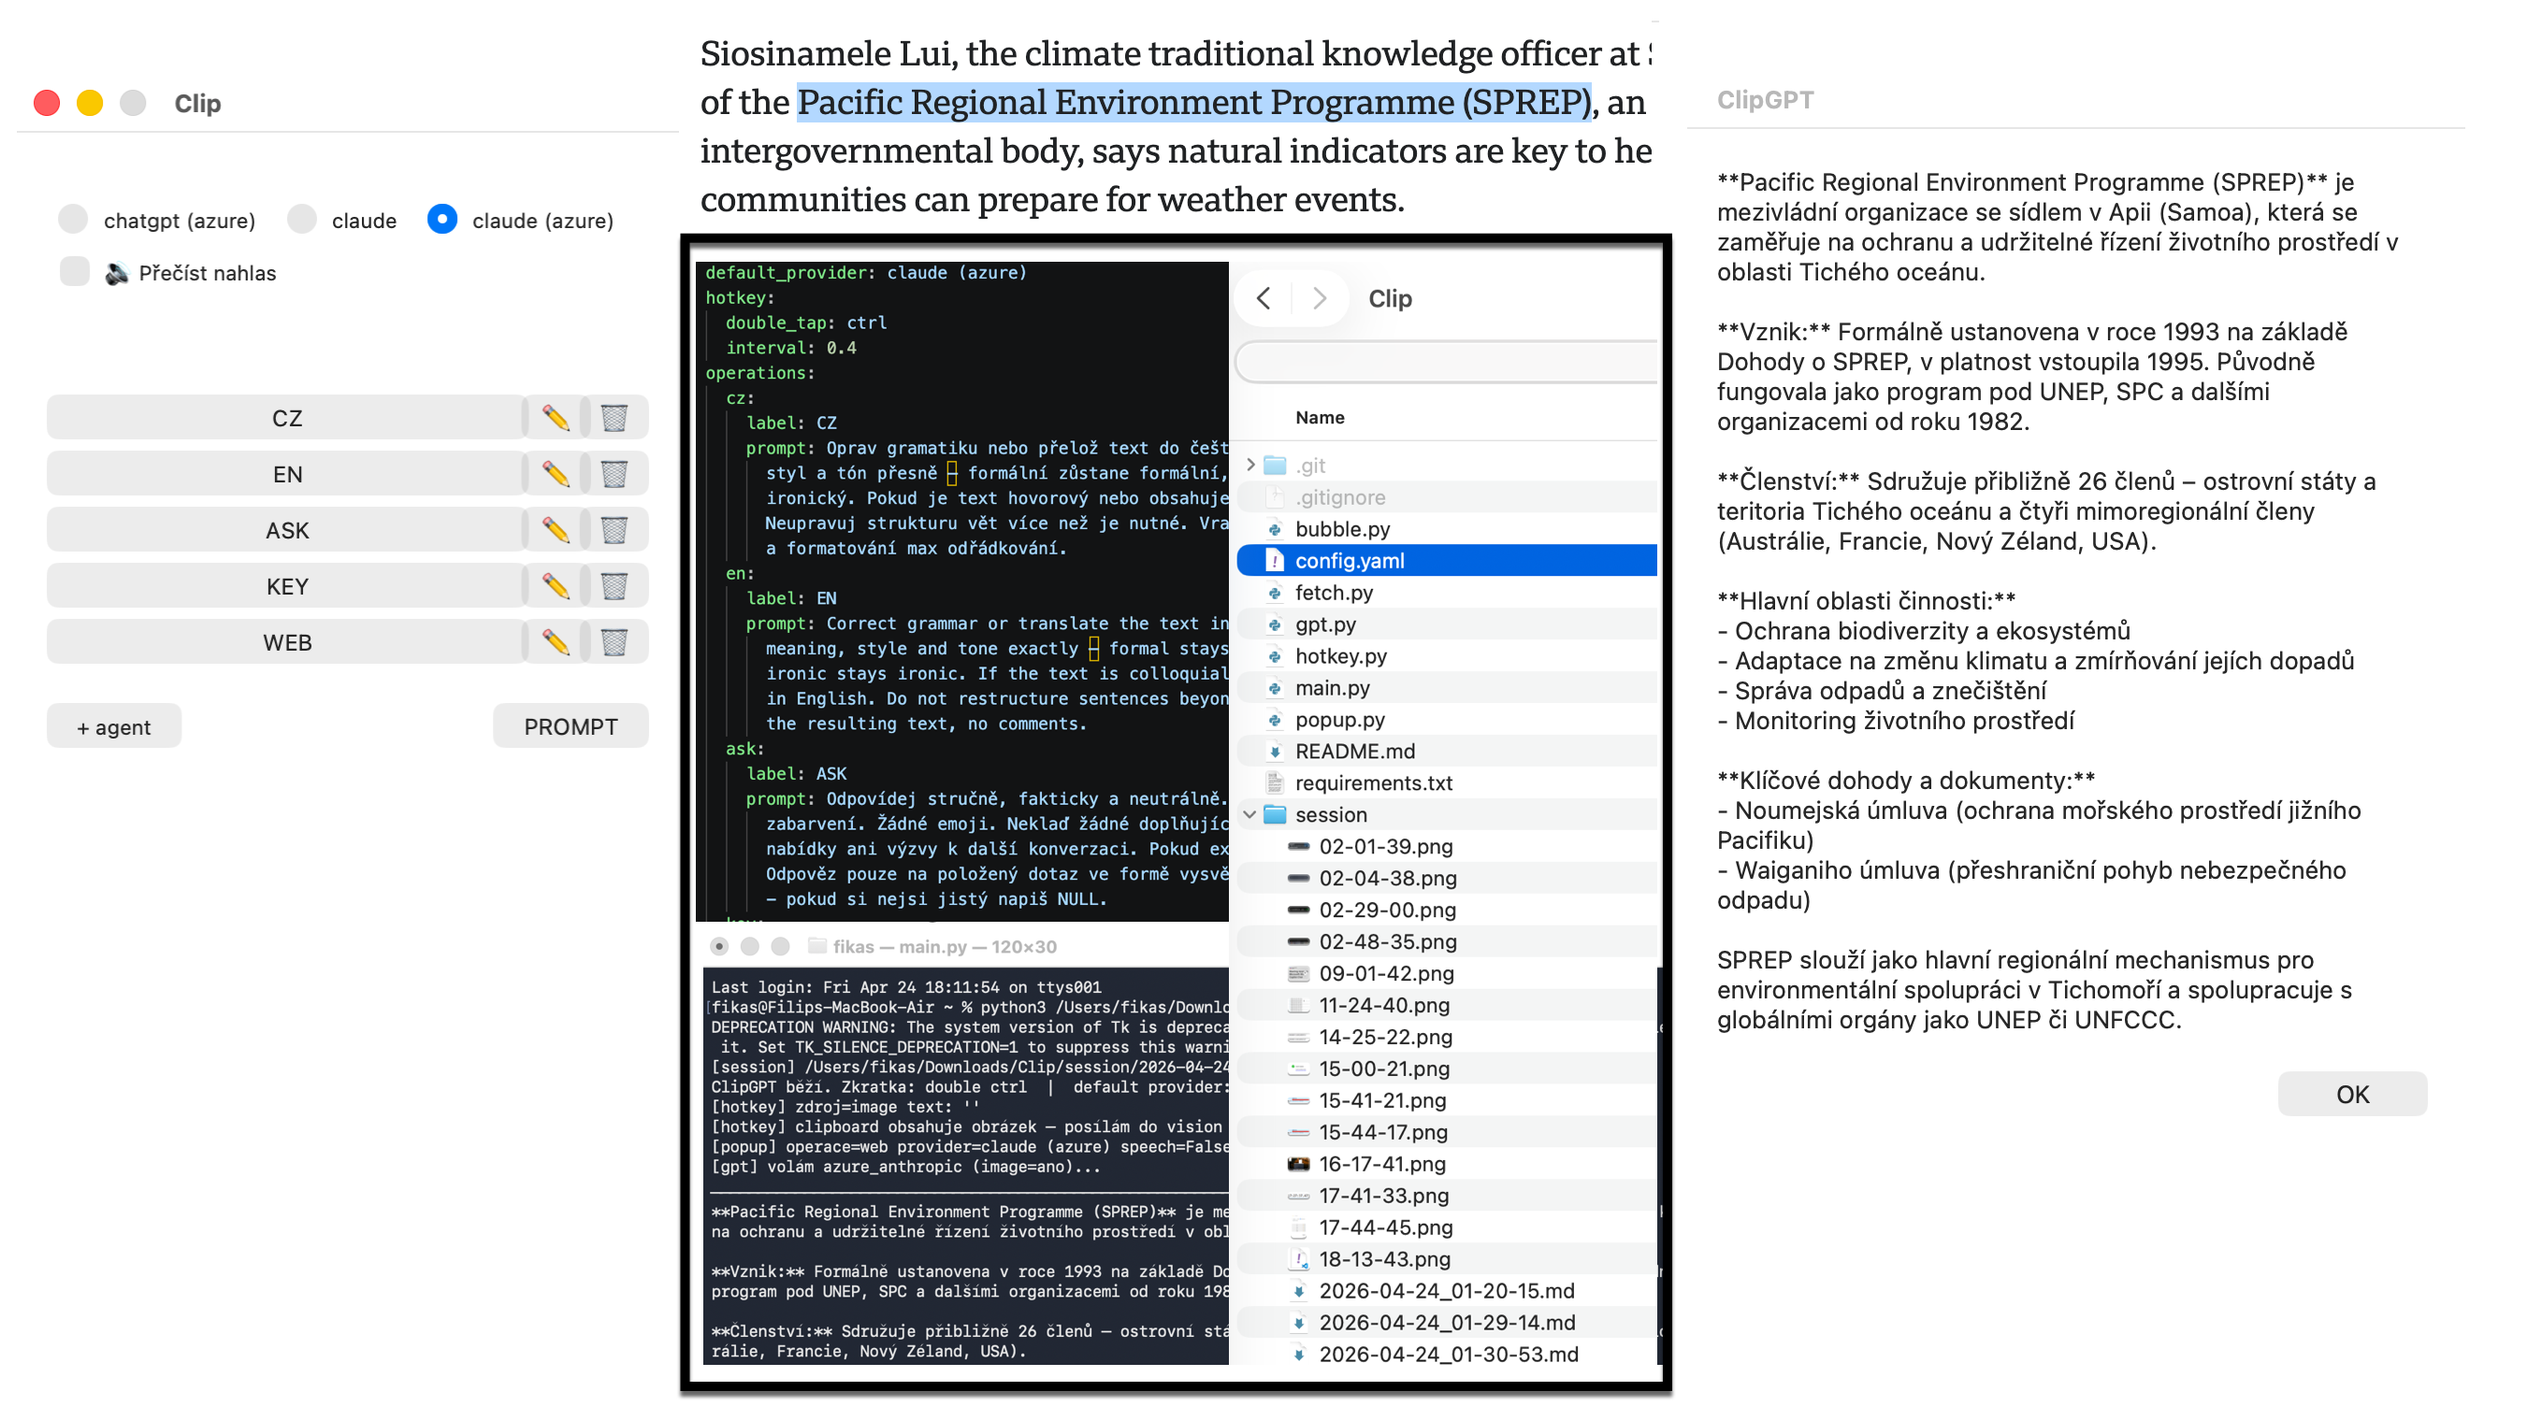
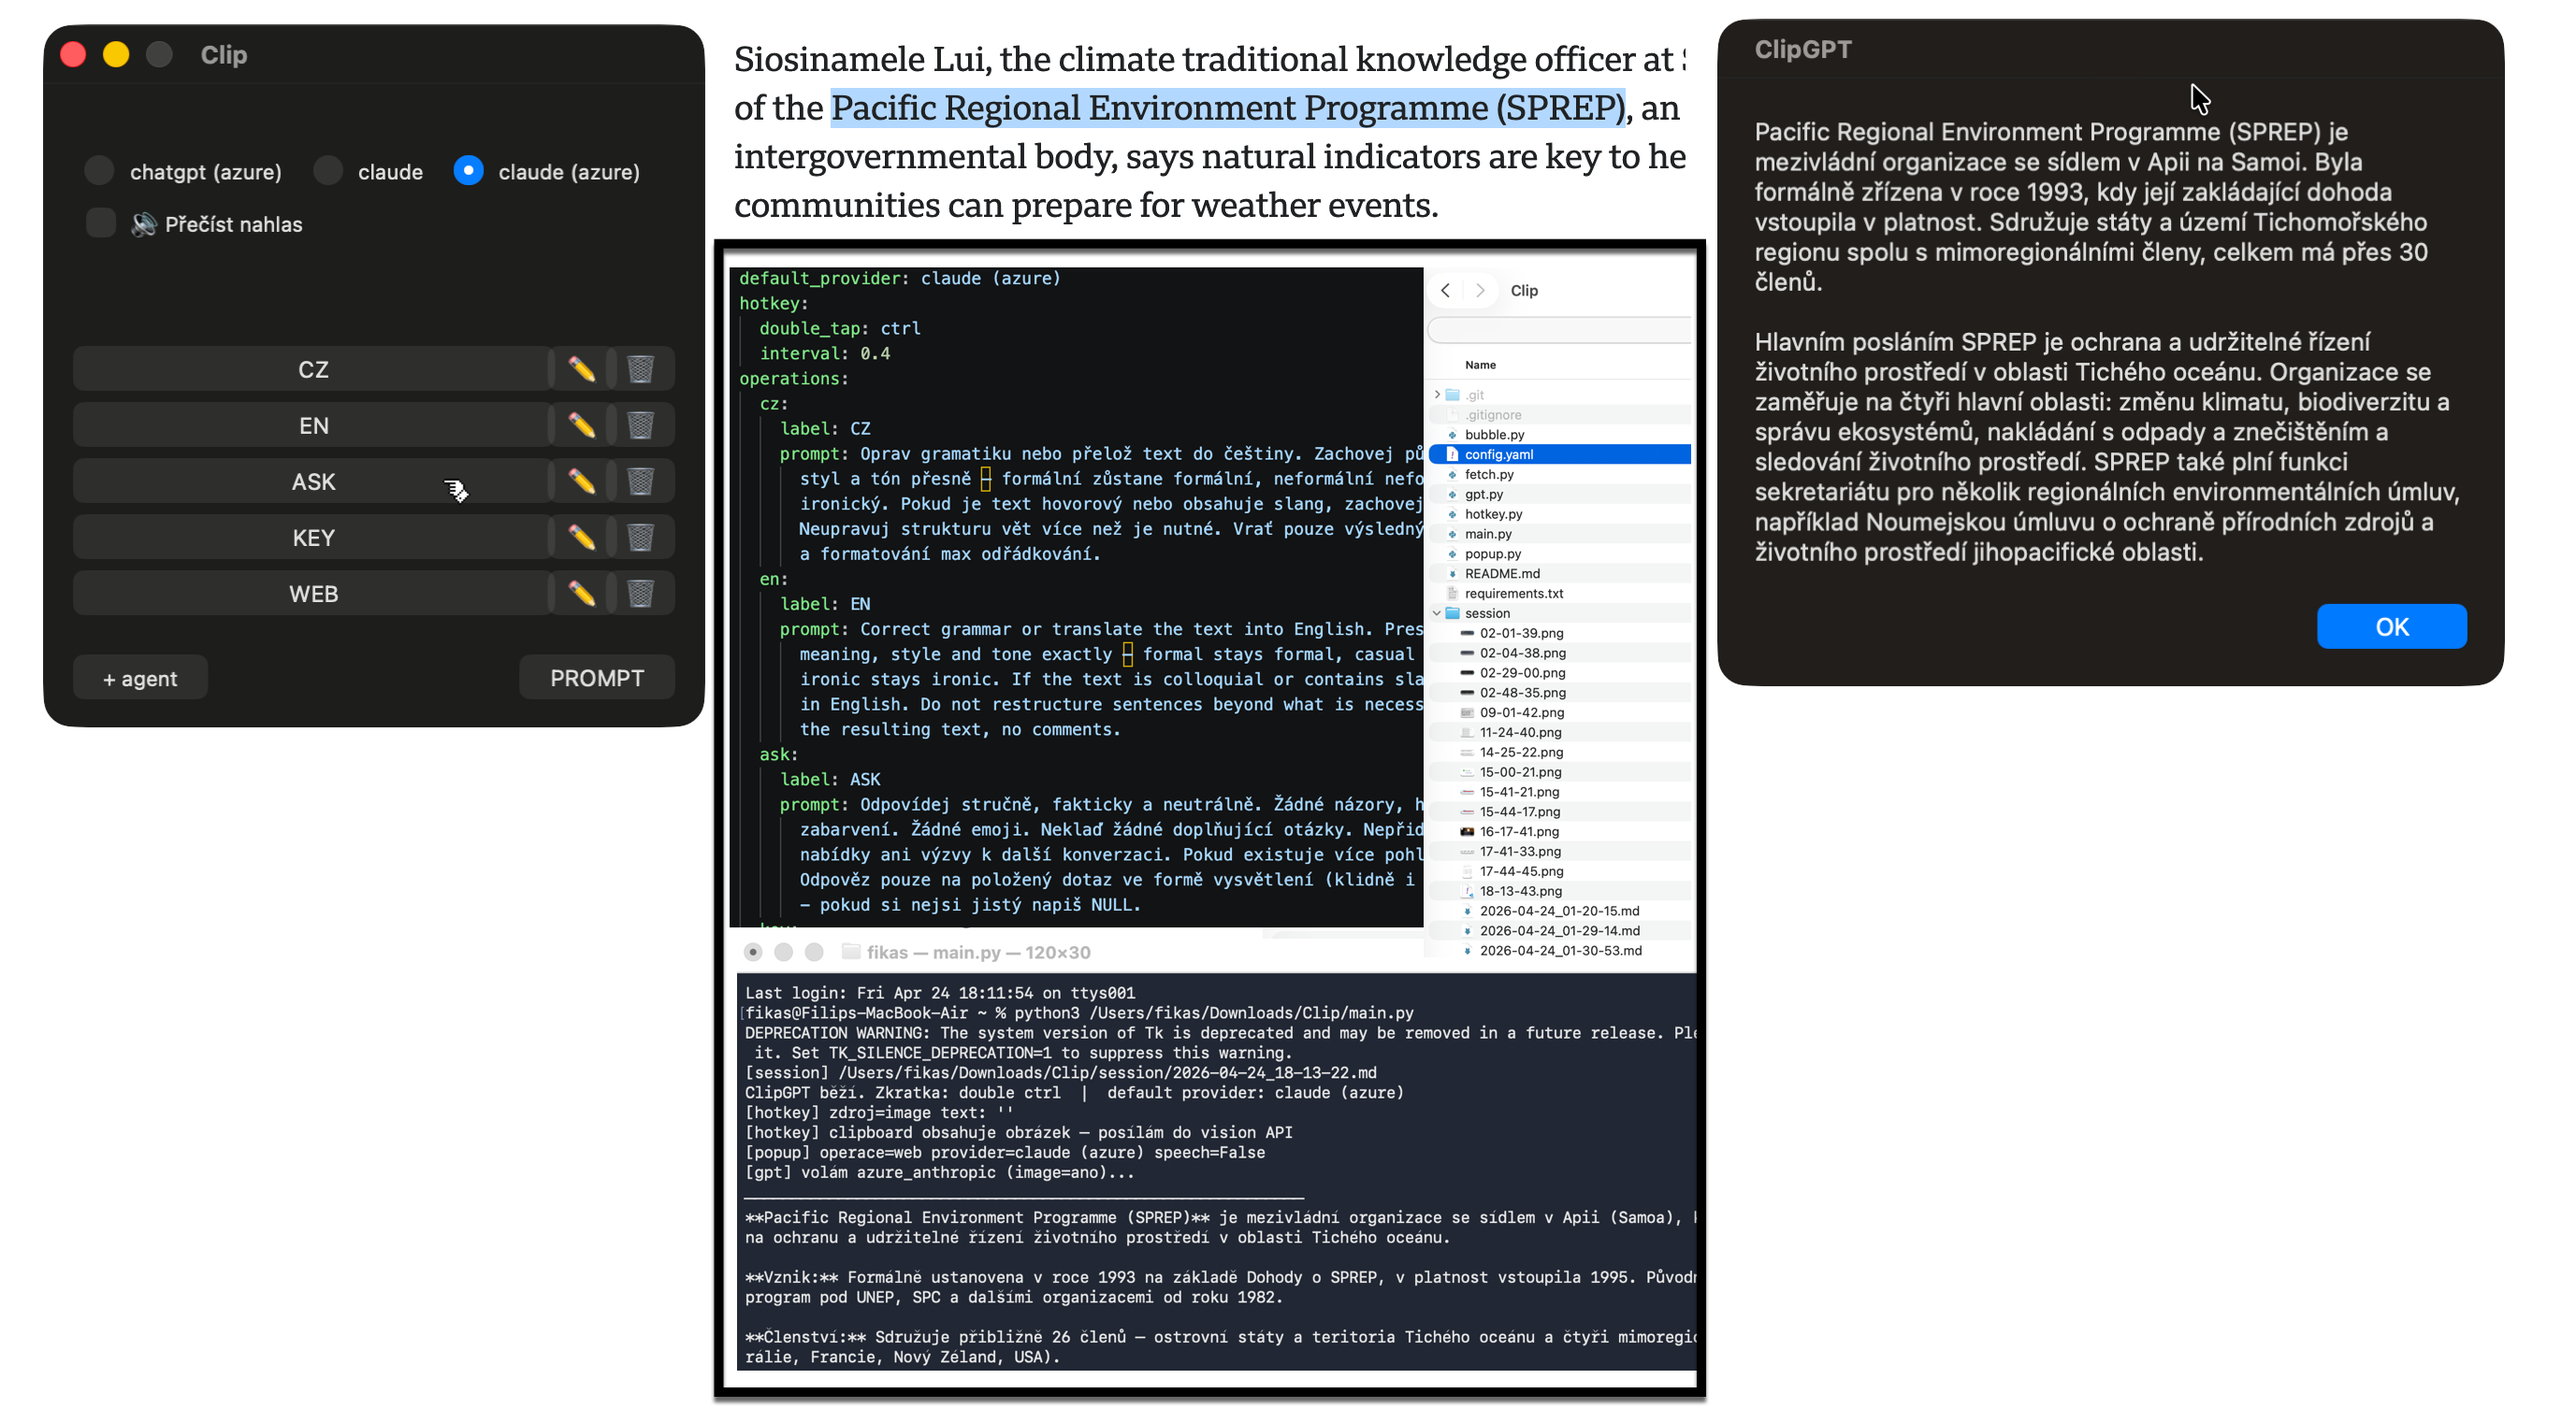
Update screenshot, add myconfig.yaml to gitignore, load myconfig preferentially

diff --git a/main.py b/main.py
@@ -32,7 +32,10 @@ def _strip_markdown(text: str) -> str:
 
 
 def load_config():
-    cfg_path = os.path.join(os.path.dirname(__file__), "config.yaml")
+    base = os.path.dirname(__file__)
+    cfg_path = os.path.join(base, "myconfig.yaml")
+    if not os.path.exists(cfg_path):
+        cfg_path = os.path.join(base, "config.yaml")
     with open(cfg_path) as f:
         return yaml.safe_load(f)
 
